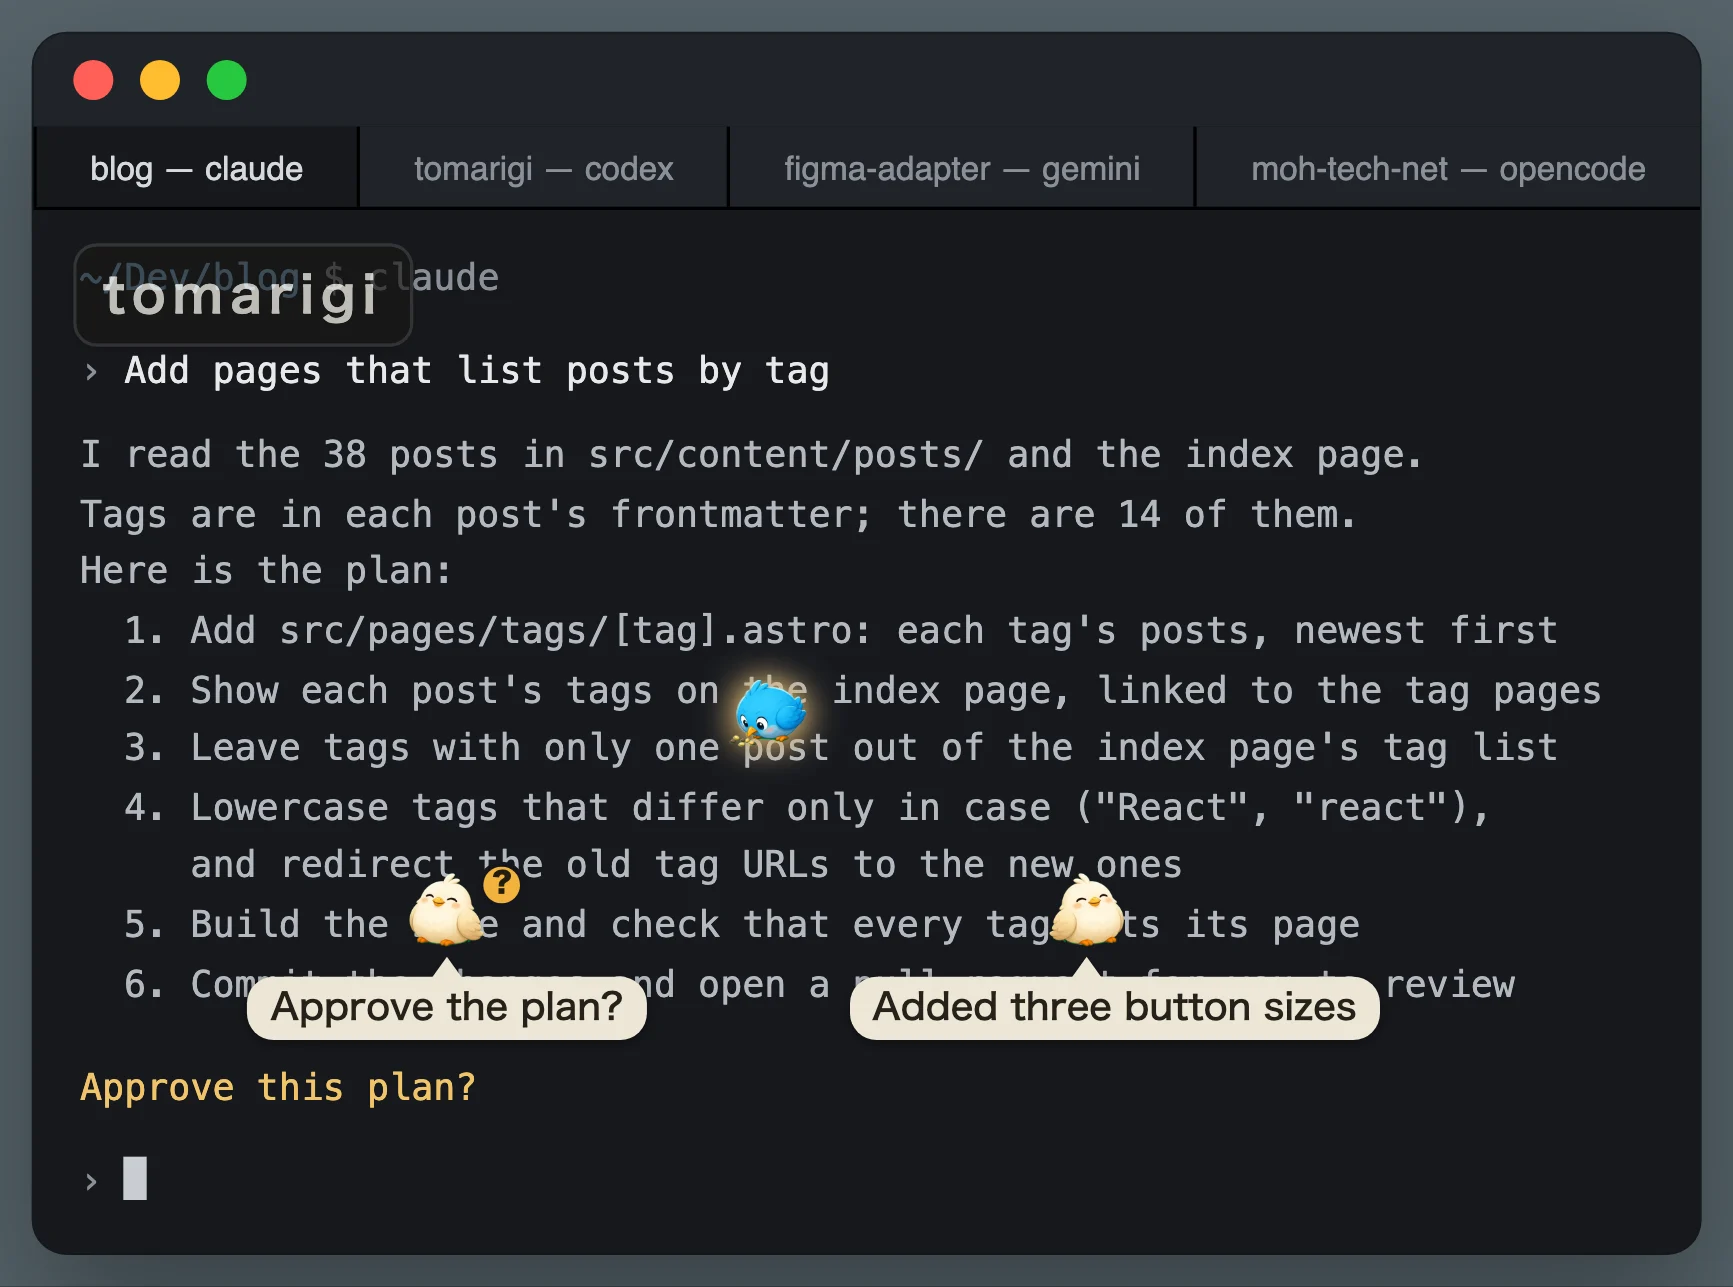
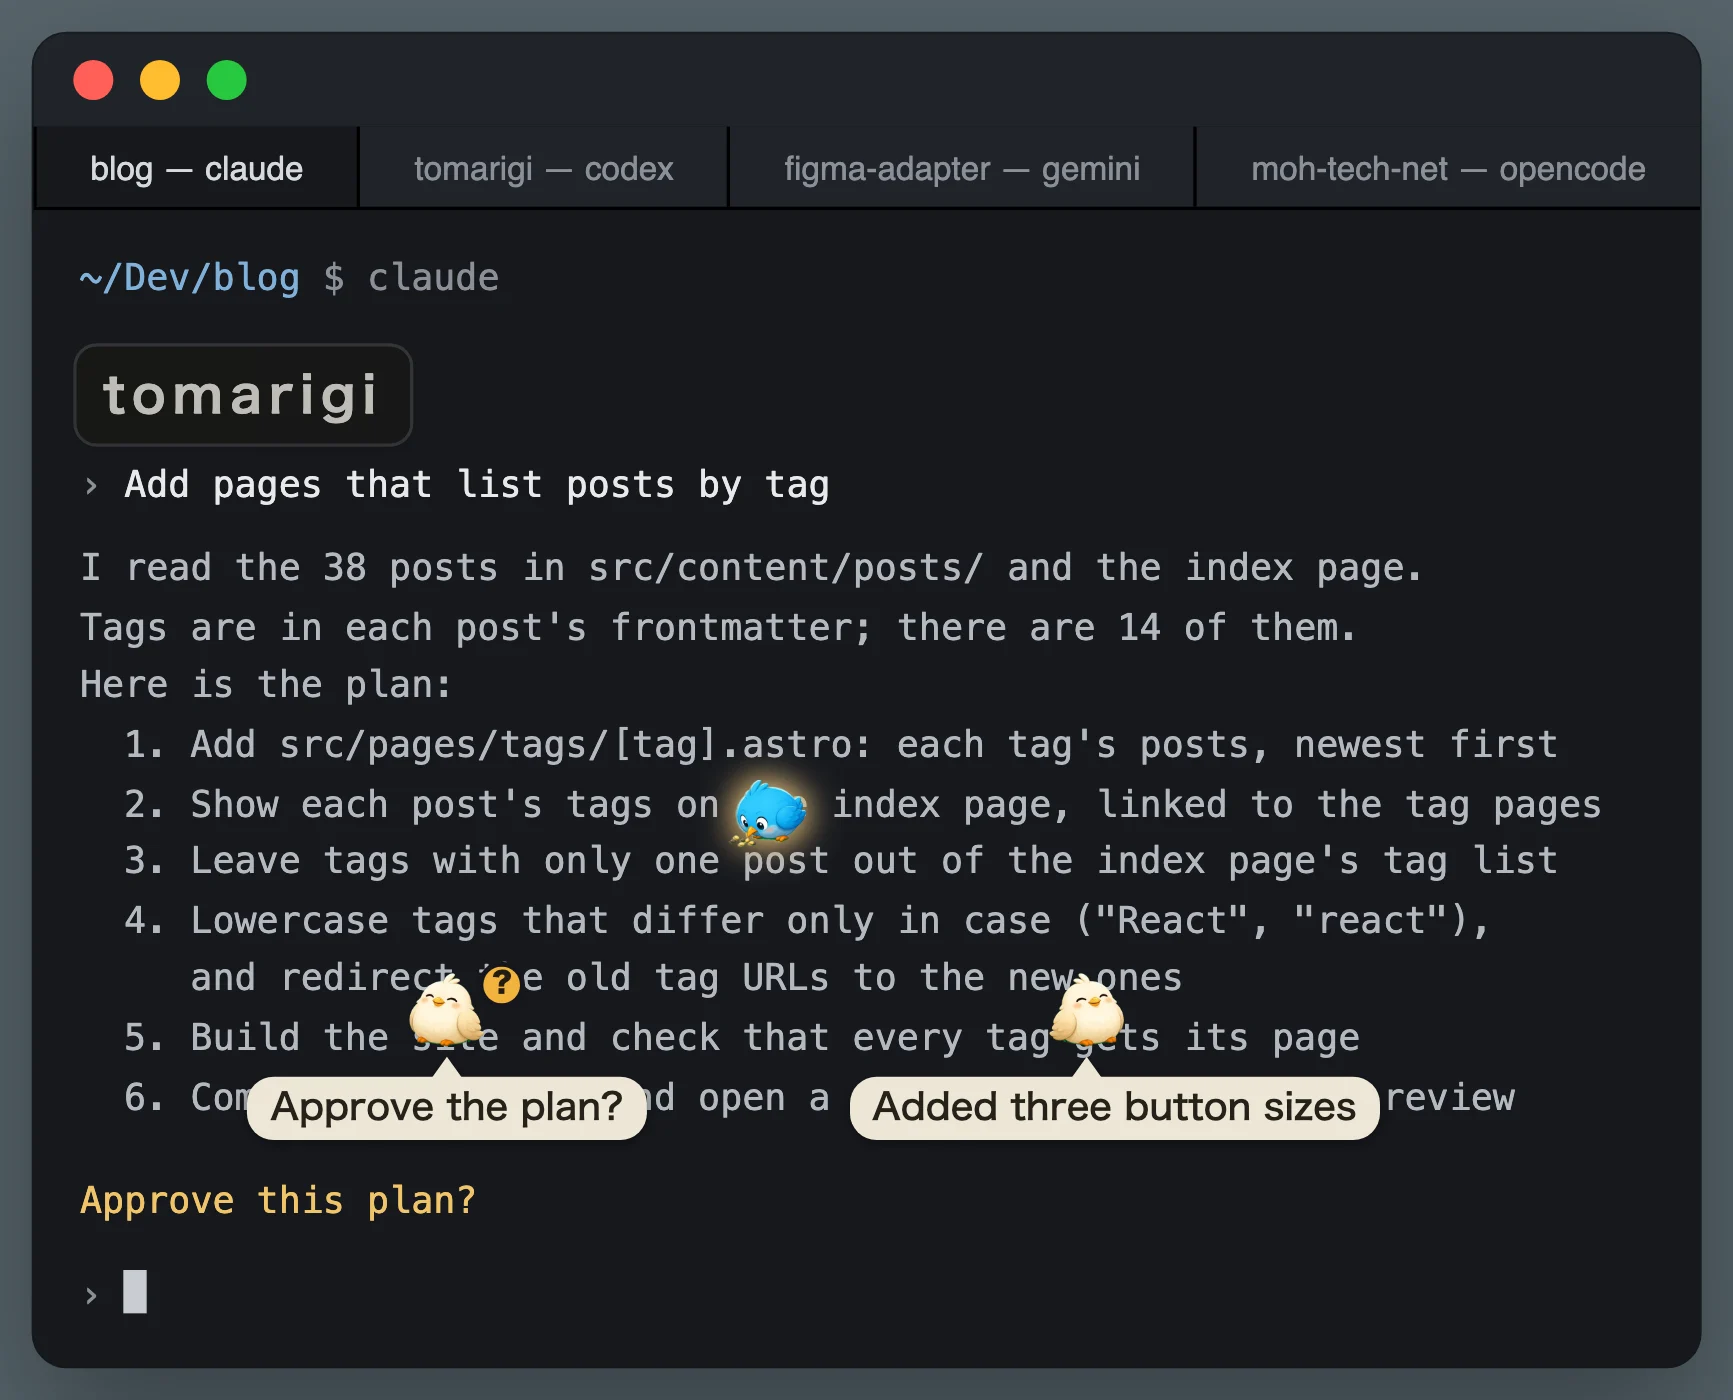
ギャラリー: にわの札を、端末の文字の無い帯に置いて撮り直す
札が `~/Dev/blog $ claude` の行に重なり、文字が二重に崩れて見えた。
その行の下に札 1 つ分の帯を空け、窓を同じだけ下げる。3 羽と吹き出しは
手順の行に重なったまま。SP 幅でも同じ 1 枚を窓ごと出すユーザーの判断を
design.md に書く。

diff --git a/docs/design.md b/docs/design.md
@@ -101,8 +101,8 @@ A desktop app for macOS, Windows, and Linux (Tauri 2; see "Platforms") that watc
   - They are shot with `scripts/gallery/shoot.mjs`, which opens the mock in a browser (`bun run dev:web`, or a `vite build` served through Playwright with `DIST=`; `?mock=1&panel=0&preset=<gallery preset>`) in a frame over a desktop with a terminal, and sets the browser's language for each set. A browser rather than the app window, so the shots don't depend on the screen they are taken on and the language can be switched without changing the computer's (Claude's own decision). The frosted glass is drawn by the stage page with CSS. The birds' project names match the terminal's tabs, and the download page shows the first image whole (below)
   - One set per language: English (app UI in English) for README.md and the English page, Japanese (app UI in Japanese) for README.ja.md and the Japanese page. Reviewers of the Japanese page flagged the English text in the images more than once (Claude's own decision to make a Japanese set)
   - No title text is baked into the image. The caption is written next to the image (README table cell, page HTML) so it can be translated and changed without reshooting (Claude's own decision)
-  - All three share the same background and are shot at the same scale (3.33 image px per CSS px), so the app window is the same size in each (Claude's own decision). Perch and Recent activity are 2540x1900 with the terminal running past their right and bottom edges; the first image is only the terminal window and a narrow margin, 1733x1287 (below)
-  - The mock data names the agents the app supports today (not only Claude Code and Codex): the terminal behind the window has four tabs running Claude Code, Codex, Gemini CLI, and OpenCode, each in the folder of one of the birds (the Garden itself doesn't show which agent a bird is). The open tab is the blog session, whose question matches the blog bird's bubble; a reviewer read a bird drawn over another session's text as that session's bird when the terminal showed four panes. They are put at saved (dragged) positions, left to right the "?", the working one, the done one, since the grid put the working bird against the "?" bird and the three read as cramped (the user: 「なおして」). They were then in one row across the window, which left most of the window empty and made them small in the download page's hero (the user: 「ダウンロードページのheroはたしかにちいさくみえるなしゅうせいして」). Now they take as little width as the garden allows without moving them: the garden keeps each bird's footprint (a bubble's 180px) 12px from the next, so the "?" and the done bird sit side by side and the working one, which has no bubble, sits above between them. The window is just wide enough for that. The arrangement and the sizes are Claude's own decision. The birds and their bubbles sit over the terminal's text, which runs on behind them on every side. The birds were first put on the empty part of the terminal below its text, since reviewers read birds over text as a broken screen; the download page's hero then showed only the birds over an empty background, and it told neither that they float over the terminal nor what the app is (the user, on that crop: 「あたらしいすくしょは、これだとわからんよ」; then, on Claude's proposal to run the text on behind the birds: 「ちゃんともじにかぶるようにはいちしろよ」, and on whether to dim it: 「くらくしなくていいよ」). The hero then cropped the image to the text and the birds without the terminal's frame, and the text alone read as the page's own text (the user: 「あのさ、もじだけやとぺーじとくべつつかんやろなにかんがえてんねんほんまなんでたーみなるうぃんどうけしてんねんぼけ」): the window's frame, the three title bar lights, and the tabs are what tell that the birds float over a terminal. So the first image is the whole terminal window, small, with a narrow margin, and the download page shows it without cropping: in the 1733x1287 image the window takes x 32–1700, y 32–1253 in both languages. Its stage is 520x386 CSS px, so the bubbles' 11px text shows at about 14px where the page's PC column (about 680px) shows the image whole (Claude's own decision). The terminal's text is 11px, the size of a real terminal's, in the same colors as before, so the birds with their glow and light bubbles stand out over it. The blog session's conversation is an ordinary task (pages that list posts by tag): an earlier one was about writing a post with screenshots of this app, which read like the shoot's own notes showing through. It ends in the plan's question, which the "?" bird's bubble asks, with a blank line before it so the bubble doesn't cover it; the plan's lines run past the birds on both sides. The blog session's ask in the mock data (Perch, Recent activity) is the terminal's first ask, and the second and third images show the same conversation behind the glass. The working bird has no bubble: bubbles show only for a stopped turn or a question, so the image shows only its working glow. The text in the bubbles follows the UI language; tool names aren't shown, since they are English in every language
+  - All three share the same background and are shot at the same scale (3.33 image px per CSS px), so the app window is the same size in each (Claude's own decision). Perch and Recent activity are 2540x1900 with the terminal running past their right and bottom edges; the first image is only the terminal window and a narrow margin, 1733x1400 (below)
+  - The mock data names the agents the app supports today (not only Claude Code and Codex): the terminal behind the window has four tabs running Claude Code, Codex, Gemini CLI, and OpenCode, each in the folder of one of the birds (the Garden itself doesn't show which agent a bird is). The open tab is the blog session, whose question matches the blog bird's bubble; a reviewer read a bird drawn over another session's text as that session's bird when the terminal showed four panes. They are put at saved (dragged) positions, left to right the "?", the working one, the done one, since the grid put the working bird against the "?" bird and the three read as cramped (the user: 「なおして」). They were then in one row across the window, which left most of the window empty and made them small in the download page's hero (the user: 「ダウンロードページのheroはたしかにちいさくみえるなしゅうせいして」). Now they take as little width as the garden allows without moving them: the garden keeps each bird's footprint (a bubble's 180px) 12px from the next, so the "?" and the done bird sit side by side and the working one, which has no bubble, sits above between them. The window is just wide enough for that. The arrangement and the sizes are Claude's own decision. The birds and their bubbles sit over the terminal's text, which runs on behind them on every side. The birds were first put on the empty part of the terminal below its text, since reviewers read birds over text as a broken screen; the download page's hero then showed only the birds over an empty background, and it told neither that they float over the terminal nor what the app is (the user, on that crop: 「あたらしいすくしょは、これだとわからんよ」; then, on Claude's proposal to run the text on behind the birds: 「ちゃんともじにかぶるようにはいちしろよ」, and on whether to dim it: 「くらくしなくていいよ」). The hero then cropped the image to the text and the birds without the terminal's frame, and the text alone read as the page's own text (the user: 「あのさ、もじだけやとぺーじとくべつつかんやろなにかんがえてんねんほんまなんでたーみなるうぃんどうけしてんねんぼけ」): the window's frame, the three title bar lights, and the tabs are what tell that the birds float over a terminal. So the first image is the whole terminal window, small, with a narrow margin, and the download page shows it without cropping: in the 1733x1400 image the window takes x 32–1700, y 32–1367 in both languages. The phone width shows the same image whole, though the bubbles' text can't be read there, and there is no separate image for phones (the user's decision, answering whether to show this one image whole at the phone width even if it can't be read or to make a separate image for phones: 「a」). Its stage is 520x420 CSS px, so the bubbles' 11px text shows at about 14px where the page's PC column (about 680px) shows the image whole (Claude's own decision). The terminal's text is 11px, the size of a real terminal's, in the same colors as before, so the birds with their glow and light bubbles stand out over it. The blog session's conversation is an ordinary task (pages that list posts by tag): an earlier one was about writing a post with screenshots of this app, which read like the shoot's own notes showing through. The garden's handle (the window's name, which stays at rest) sits in an empty band under the `claude` command line, so it covers no text: over the command line, the two read as one garbled line (Claude's own decision where to put it). The conversation ends in the plan's question, which the "?" bird's bubble asks, with a blank line before it so the bubble doesn't cover it; the plan's lines run past the birds on both sides. The blog session's ask in the mock data (Perch, Recent activity) is the terminal's first ask, and the second and third images show the same conversation behind the glass. The working bird has no bubble: bubbles show only for a stopped turn or a question, so the image shows only its working glow. The text in the bubbles follows the UI language; tool names aren't shown, since they are English in every language
 - The × at the right end of the header hides the window (bring it back from the menu bar icon). Its label says "hide window", not "close", so it isn't mistaken for leaving settings or a dialog
 - The header and the row under it (the tabs, or the settings bar while in settings) stay at the top; only the content below them scrolls. The add-folder dialog follows the same rule: its title and × stay in view and only its content scrolls
 - The debug log is a screen like settings: it replaces the tabs' content under the header (the header buttons stay), shows a "‹ Back" row in place of the tabs, and closes with Back, the debug button again, or Esc. Settings and the debug log are never open at the same time
